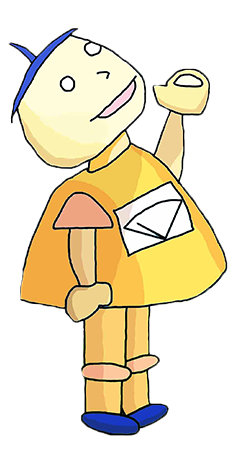
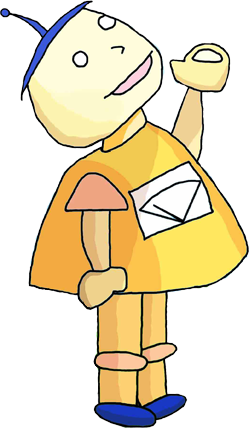
剩地圖的排版 和其他瀏覽器的遮罩修復

diff --git a/public/js/nculife/nculife_item.js b/public/js/nculife/nculife_item.js
@@ -1,5 +1,4 @@
 $(function(){
-
 	var LorP = 'Picture';
 	var canDrag = false;
 	var drag = $('#1').draggable({
@@ -10,13 +9,19 @@ $(function(){
 
 	$('#place').jScrollPane();
 
+	$('#introductionbox').jScrollPane();
+
+	$('.place1').addClass("placeClick");
+
+	$('.img').addClass("imgMask");
+
 	$('.place').click(function(){
 		var num = $(this).data("num");
+		var id = $(this).data("id");
 		var formURL = getTransferData('ncu_life_select_url');
 		var data = {num: num};
-		var id = $(this).data("id");
-		$('.place').css("background-image", "url(../images/nculife/place.png)");
-		$('#place' + id).css("background-image", "url(../images/nculife/prese_place.png)");
+		$('.place').removeClass("placeClick");
+		$('.place' + id).addClass("placeClick");
 		canDrag = false;
 		DragLocal();
 		ajaxGet(formURL, data, changeIntroductionAndImage);
@@ -53,7 +58,8 @@ $(function(){
 	});
 
 	function changeIntroductionAndImage(data){
-		$('#introduction').html(data['result']['introduction']);
+		$('#introductionbox2').html(data['result']['introduction']);
+		$('#introductionbox').jScrollPane();
 		$('#buttom').data("num", data['result']['id']);
 		if(LorP == 'Picture')
 		{
@@ -68,6 +74,7 @@ $(function(){
 			}
 			$('#picture').append('<div id="img"></div>');
 			$('#img').append('<img id="1" class="img" class="img" src="' + bURL + "/img/uploadImage/" + data['pictures'][0]['picture_admin'].file_name +'">');
+			$('.img').addClass("imgMask");
 			drag = $('#1').draggable({
 					containment: '#containment'
         			});
@@ -96,6 +103,7 @@ $(function(){
 			}
 			$('#picture').append('<div id="img"></div>');
 			$('#img').append('<img id="1" class="img" src="' + bURL + "/img/uploadImage/" + data['pictures'][0]['picture_admin'].file_name +'">');
+			$('.img').addClass("imgMask");
 			drag = $('#1').draggable({
 					containment: '#containment'
         			});
@@ -111,7 +119,16 @@ $(function(){
 			});
 			LorP = 'Picture';
 		}
-		$('#change').attr('src', bURL + "/images/nculife/buttom_left.png")
+		var length = data['local'].length;
+		if(length == 1)
+		{
+			$('#buttom').show();
+			$('#change').attr('src', bURL + "/images/nculife/buttom_left.png")
+		}
+		else if(length == 0)
+		{
+			$('#buttom').hide();
+		}
 	}
 
 	function changePicture(data){
@@ -126,6 +143,7 @@ $(function(){
 		}
 		$('#picture').append('<div id="img"></div>');
 		$('#img').append('<img id="1" class="img" src="' + bURL + "/img/uploadImage/" + data['pictures'][0]['picture_admin'].file_name +'">');
+		$('.img').addClass("imgMask");
 		$('#change').attr('src', bURL + "/images/nculife/buttom_left.png")
 		drag = $('#1').draggable({
 				containment: '#containment'
@@ -150,12 +168,11 @@ $(function(){
 		$('#border').css("width", "545px").css("height", "325px").css("margin-top", "150px").css("margin-left", "45px").css("overflow", "hidden");
 		$('#border').append('<img id="1" class="img" src="' + bURL + "/img/uploadImage/" + data['local'][0].file_name +'">');
 		$('#1').css("width", "783px").css("height", "522px").css("margin-top", "0px").css("margin-left", "0px").css("top", data['result']['top']).css("left", data['result']['left']);
-		$('.img').css('-webkit-mask-image', 'null');
 		$('#picture').append('<div id="containment"></div>');
 		$('#change').attr('src', bURL + "/images/nculife/buttom_right.png")
 		drag = $('#1').draggable({
 				containment: '#containment'
-        		});
+	        	});
 		DragLocal();
 	}
 

diff --git a/public/js/nculife/nculife_index.js b/public/js/nculife/nculife_index.js
@@ -1,0 +1,43 @@
+$(function(){
+	var bURL = getTransferData('burl');
+
+	$('#item1').mouseenter(function(){
+		$('#food').attr("src", bURL + "/images/nculife/prese_food.png")
+	});
+
+	$('#item1').mouseleave(function(){
+		$('#food').attr("src", bURL + "/images/nculife/food.png")
+	});
+
+	$('#item2').mouseenter(function(){
+		$('#live').attr("src", bURL + "/images/nculife/prese_live.png")
+	});
+	
+	$('#item2').mouseleave(function(){
+		$('#live').attr("src", bURL + "/images/nculife/live.png")
+	});
+
+	$('#item3').mouseenter(function(){
+		$('#go').attr("src", bURL + "/images/nculife/prese_go.png")
+	});
+	
+	$('#item3').mouseleave(function(){
+		$('#go').attr("src", bURL + "/images/nculife/go.png")
+	});
+
+	$('#item4').mouseenter(function(){
+		$('#inschool').attr("src", bURL + "/images/nculife/prese_inschool.png")
+	});
+
+	$('#item4').mouseleave(function(){
+		$('#inschool').attr("src", bURL + "/images/nculife/inschool.png")
+	});
+
+	$('#item5').mouseenter(function(){
+		$('#outschool').attr("src", bURL + "/images/nculife/prese_outschool.png")
+	});
+	
+	$('#item5').mouseleave(function(){
+		$('#outschool').attr("src", bURL + "/images/nculife/outschool.png")
+	});
+})

diff --git a/public/css/nculife_item.css b/public/css/nculife_item.css
@@ -31,12 +31,25 @@
 	width: 100%;
 	height: 155px;
 	font-size: 30px;
-	padding: 35;
+	font-family: "微軟正黑體";
+	text-align: center;
+	padding: 35px;
 	margin-bottom: -15px;
 	background-image: url(../images/nculife/place.png);
 }
 
-#place1 {
+.place:hover {
+	width: 100%;
+	height: 155px;
+	font-size: 30px;
+	font-family: "微軟正黑體";
+	text-align: center;
+	padding: 35px;
+	margin-bottom: -15px;
+	background-image: url(../images/nculife/prese_place.png);
+}
+
+.placeClick {
 	background-image: url(../images/nculife/prese_place.png);
 }
 
@@ -59,10 +72,22 @@
 #introduction {
 	width: 636px;
 	height: 359px;
-	overflow: auto;
-	font-size: 25px;
-	padding: 20 30;
+	font-size: 20px;
+	font-family: "微軟正黑體";
+	padding: 20px 30px;
 	background-image: url(../images/nculife/introduction.png);
+}
+
+#introductionbox {
+	width: 550px;
+	height: 250px;
+	margin-top: 2px;
+	margin-left: 10px;
+	overflow: auto;
+}
+
+#introductionbox2 {
+	width: 550px;
 }
 
 #picture {
@@ -107,6 +132,9 @@
 	height: 440px;
 	margin-top: 15px;
 	margin-left: 0px;
+}
+
+.imgMask {
 	-webkit-mask-image: url(../images/nculife/photomask.png);
 }
 

diff --git a/public/css/nculife_index.css b/public/css/nculife_index.css
@@ -46,7 +46,7 @@
 
 #robot {
 	position: absolute;
-	top: 505px;
+	top: 470px;
 	left: 100px;
 	height: 464px;
 	width: 238px;

diff --git a/app/views/nculife/nculife_index.blade.php b/app/views/nculife/nculife_index.blade.php
@@ -2,24 +2,25 @@
 
 @section('js_css')
 	{{ HTML::style('css/nculife_index.css') }}
+	{{ HTML::script('js/nculife/nculife_index.js') }}
 @stop
 
 @section('content')
 	<div id="all">
 		<div id="item1">
-			<a href="{{ route('nculife.item', array('name' => 'food')) }}"><img src="{{ asset('images/nculife/food.png') }}" class="picture"></a>
+			<a href="{{ route('nculife.item', array('name' => 'food')) }}"><img id="food" src="{{ asset('images/nculife/food.png') }}" class="picture"></a>
 		</div>
 		<div id="item2">
-			<a href="{{ route('nculife.item', array('name' => 'live')) }}"><img src="{{ asset('images/nculife/live.png') }}" class="picture"></a>
+			<a href="{{ route('nculife.item', array('name' => 'live')) }}"><img id="live" src="{{ asset('images/nculife/live.png') }}" class="picture"></a>
 		</div>
 		<div id="item3">
-			<a href="{{ route('nculife.item', array('name' => 'go')) }}"><img src="{{ asset('images/nculife/go.png') }}" class="picture"></a>
+			<a href="{{ route('nculife.item', array('name' => 'go')) }}"><img id="go" src="{{ asset('images/nculife/go.png') }}" class="picture"></a>
 		</div>
 		<div id="item4">
-			<a href="{{ route('nculife.item', array('name' => 'inschool')) }}"><img src="{{ asset('images/nculife/inschool.png') }}" class="picture"></a>
+			<a href="{{ route('nculife.item', array('name' => 'inschool')) }}"><img id="inschool" src="{{ asset('images/nculife/inschool.png') }}" class="picture"></a>
 		</div>
 		<div id="item5">
-			<a href="{{ route('nculife.item', array('name' => 'outschool')) }}"><img src="{{ asset('images/nculife/outschool.png') }}" class="picture"></a>
+			<a href="{{ route('nculife.item', array('name' => 'outschool')) }}"><img id="outschool" src="{{ asset('images/nculife/outschool.png') }}" class="picture"></a>
 		</div>
 		<img id="robot" src="{{ asset('images/nculife/robot.png') }}" class="picture">
 	</div>

diff --git a/app/views/nculife/nculife_item.blade.php b/app/views/nculife/nculife_item.blade.php
@@ -2,7 +2,7 @@
 
 @section('js_css')
 	{{ HTML::style('css/nculife_item.css') }}
-	{{ HTML::script('js/nculife/nculife.js') }}
+	{{ HTML::script('js/nculife/nculife_item.js') }}
 @stop
 
 @section('content')
@@ -13,17 +13,23 @@
 			<div id="place">
 			<?php $i=1 ?>
 			@foreach ($nculifes as $nculife)
-				<div id="place{{$i}}" class="place" data-id="{{$i++}}" data-num="{{$nculife->id}}">
+				<div class="place{{$i}} place" data-id="{{$i++}}" data-num="{{$nculife->id}}">
 					{{$nculife->place}}
 				</div>
 			@endforeach
+				<div style="height:18px;">
+				</div>
 			</div>
 			<div id="left_bottom">
 			</div>
 		</div>
 		<div id="right">
 			<div id="introduction">
-				{{$nculifes[0]->introduction}}
+				<div id="introductionbox">
+					<div id="introductionbox2">
+						{{$nculifes[0]->introduction}}
+					</div>
+				</div>
 			</div>
 			<div id="picture">
 				<div id="picture_select">
